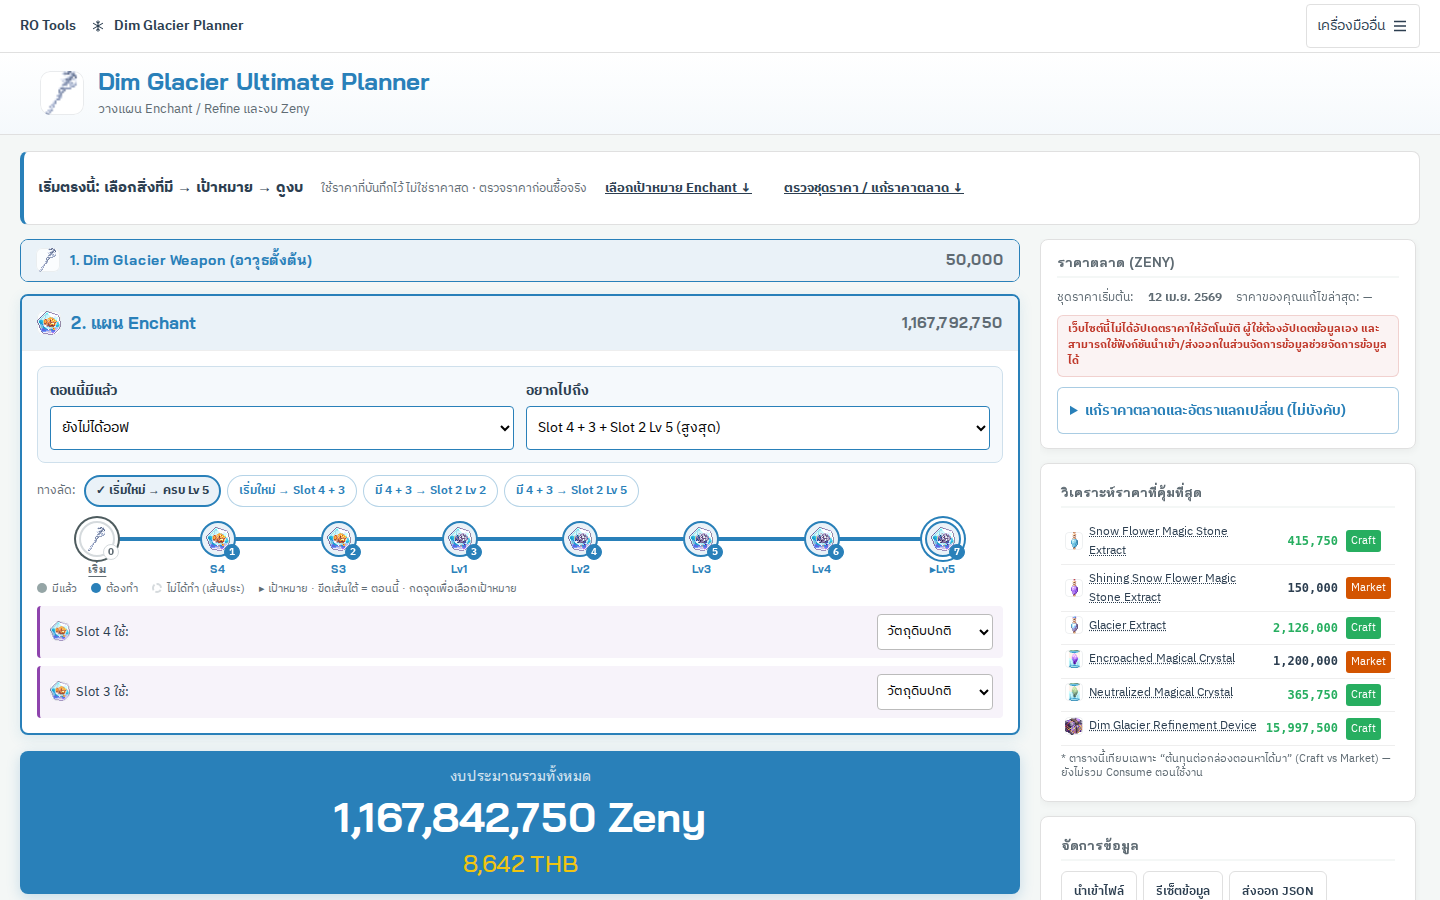
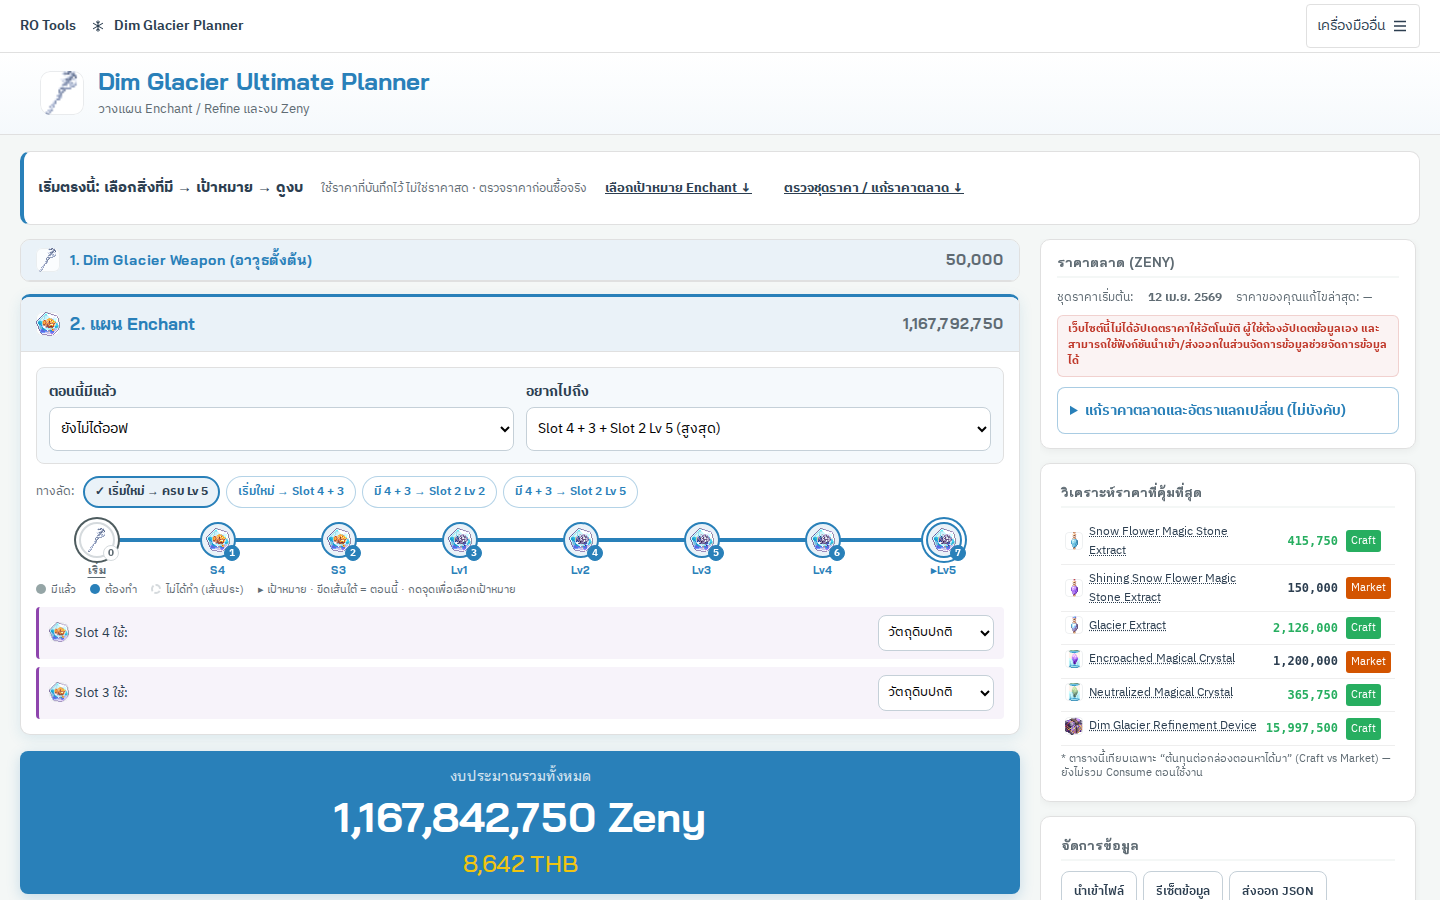
Unify borders: hairline cards, uniform controls, accent top bar on primary cards
Claude-Session: https://claude.ai/code/session_01NtBUtWsinKPD7YZ8sp6Py9

diff --git a/index.html b/index.html
@@ -768,11 +768,11 @@
     @media (max-width: 520px) { #card_base .card-title { font-size: 13px; gap: 8px; } }
 
     /* primary start point: current -> target */
-    #card_plan { border-width: 2px; box-shadow: 0 4px 14px rgba(41,128,185,.12); }
+    #card_plan, #card_shop { border-top: 3px solid var(--accent); box-shadow: 0 4px 14px rgba(41,128,185,.12); }
     #card_plan .card-title { font-size: 17px; }
     .stage-selects { gap: 12px; padding: 12px; background: #f5f9fc; border: 1px solid #cfe0ec; border-radius: 8px; }
     .stage-field { font-size: 14px; color: var(--primary); }
-    .stage-field select { min-height: 44px; font-size: 14px; border-color: var(--accent); }
+    .stage-field select { min-height: 44px; font-size: 14px; }
 
     /* presets: quiet shortcuts under the two controls */
     .preset-row { margin: 12px 0 4px; }
@@ -811,7 +811,6 @@
     /* result: total first, shopping list scans by name / qty / cost */
     .first-run-planner > .grand-total { padding: 16px 20px; margin-bottom: 16px; box-shadow: 0 4px 14px rgba(41,128,185,.22); }
     #total_zeny { font-size: clamp(28px, 8.5vw, 42px) !important; overflow-wrap: anywhere; }
-    #card_shop { border-width: 2px; }
     #card_shop .card-title { font-size: 17px; }
     .shop-summary { color: var(--muted); }
     .shop-table .shop-qty { width: 1%; padding: 7px 14px; }
@@ -823,7 +822,7 @@
     .view-btn.active::before { content: "\2713\00a0"; }
 
     /* refine: optional add-on after the enchant plan */
-    #card_refine { border-color: var(--border); margin-bottom: 14px; }
+    #card_refine { margin-bottom: 14px; }
     #card_refine .card-top { background: #f6f8f9; padding: 10px 15px; }
     #card_refine .card-title { font-size: 14px; color: var(--primary); }
     #card_refine .card-cost { font-size: 14px; }
@@ -853,6 +852,18 @@
     .site-head h1 { grid-column: auto; text-align: left; margin: 0; font-size: 24px; line-height: 1.2; }
     .site-head p { margin: 2px 0 0; font-size: 13px; color: var(--muted); }
     @media (max-width: 520px) { .site-head-in { padding: 10px 20px; gap: 10px; } .site-head-icon { width: 36px; height: 36px; } .site-head h1 { font-size: 18px; } .site-head p { font-size: 12px; } }
+
+    /* one border system: hairline cards, uniform controls, emphasis from a top bar + soft shadow */
+    :root { --edge: #e0e0e0; --control-edge: #c5d0d8; }
+    .card, .interactive-card, .first-run-guide, .gimmick-box { border-radius: 10px; }
+    .interactive-card { border-color: var(--edge); }
+    .card-top { border-bottom-color: var(--edge); }
+    .input-group input, .method-select, .toolbar-btn, .toolbar-card .toolbar-btn, .toolbar-card .toolbar-btn.primary, .first-run-prices > summary { border: 1px solid var(--control-edge); border-radius: 8px; }
+    .stage-selects { border-color: var(--edge); }
+    .view-toggle { border-color: var(--control-edge); border-radius: 8px; }
+    .input-group input:hover, .method-select:hover, .toolbar-btn:hover, .toolbar-card .toolbar-btn:hover { border-color: var(--accent); }
+    .input-group input:focus-visible, .method-select:focus-visible { border-color: var(--accent); }
+    .first-run-prices > summary { border-color: rgba(41,128,185,.4); }
   </style>
   <link rel="stylesheet" href="./assets/ro-suite/nav140-host.css">
   <link rel="stylesheet" href="./assets/ro-suite/theme-host.css">

diff --git a/qa/ui-cohesion/ui-cohesion.css b/qa/ui-cohesion/ui-cohesion.css
@@ -61,11 +61,11 @@
     @media (max-width: 520px) { #card_base .card-title { font-size: 13px; gap: 8px; } }
 
     /* primary start point: current -> target */
-    #card_plan { border-width: 2px; box-shadow: 0 4px 14px rgba(41,128,185,.12); }
+    #card_plan, #card_shop { border-top: 3px solid var(--accent); box-shadow: 0 4px 14px rgba(41,128,185,.12); }
     #card_plan .card-title { font-size: 17px; }
     .stage-selects { gap: 12px; padding: 12px; background: #f5f9fc; border: 1px solid #cfe0ec; border-radius: 8px; }
     .stage-field { font-size: 14px; color: var(--primary); }
-    .stage-field select { min-height: 44px; font-size: 14px; border-color: var(--accent); }
+    .stage-field select { min-height: 44px; font-size: 14px; }
 
     /* presets: quiet shortcuts under the two controls */
     .preset-row { margin: 12px 0 4px; }
@@ -104,7 +104,6 @@
     /* result: total first, shopping list scans by name / qty / cost */
     .first-run-planner > .grand-total { padding: 16px 20px; margin-bottom: 16px; box-shadow: 0 4px 14px rgba(41,128,185,.22); }
     #total_zeny { font-size: clamp(28px, 8.5vw, 42px) !important; overflow-wrap: anywhere; }
-    #card_shop { border-width: 2px; }
     #card_shop .card-title { font-size: 17px; }
     .shop-summary { color: var(--muted); }
     .shop-table .shop-qty { width: 1%; padding: 7px 14px; }
@@ -116,7 +115,7 @@
     .view-btn.active::before { content: "\2713\00a0"; }
 
     /* refine: optional add-on after the enchant plan */
-    #card_refine { border-color: var(--border); margin-bottom: 14px; }
+    #card_refine { margin-bottom: 14px; }
     #card_refine .card-top { background: #f6f8f9; padding: 10px 15px; }
     #card_refine .card-title { font-size: 14px; color: var(--primary); }
     #card_refine .card-cost { font-size: 14px; }
@@ -146,3 +145,15 @@
     .site-head h1 { grid-column: auto; text-align: left; margin: 0; font-size: 24px; line-height: 1.2; }
     .site-head p { margin: 2px 0 0; font-size: 13px; color: var(--muted); }
     @media (max-width: 520px) { .site-head-in { padding: 10px 20px; gap: 10px; } .site-head-icon { width: 36px; height: 36px; } .site-head h1 { font-size: 18px; } .site-head p { font-size: 12px; } }
+
+    /* one border system: hairline cards, uniform controls, emphasis from a top bar + soft shadow */
+    :root { --edge: #e0e0e0; --control-edge: #c5d0d8; }
+    .card, .interactive-card, .first-run-guide, .gimmick-box { border-radius: 10px; }
+    .interactive-card { border-color: var(--edge); }
+    .card-top { border-bottom-color: var(--edge); }
+    .input-group input, .method-select, .toolbar-btn, .toolbar-card .toolbar-btn, .toolbar-card .toolbar-btn.primary, .first-run-prices > summary { border: 1px solid var(--control-edge); border-radius: 8px; }
+    .stage-selects { border-color: var(--edge); }
+    .view-toggle { border-color: var(--control-edge); border-radius: 8px; }
+    .input-group input:hover, .method-select:hover, .toolbar-btn:hover, .toolbar-card .toolbar-btn:hover { border-color: var(--accent); }
+    .input-group input:focus-visible, .method-select:focus-visible { border-color: var(--accent); }
+    .first-run-prices > summary { border-color: rgba(41,128,185,.4); }

diff --git a/qa/ui-cohesion/REPORT.md b/qa/ui-cohesion/REPORT.md
@@ -27,3 +27,4 @@ Presentation-only pass on top of the first-run flow. No formula, price, storage,
 - Full-bleed shared nav (host-side margin/padding only; nav component and its host CSS untouched) and a slim title band (icon + h1 + one-line subtitle) replace the centred bare `<h1>`. Screenshots: `screenshots/frame-1440.png`, `frame-390.png`.
 - Fonts: IBM Plex Sans Thai (body) and Bai Jamjuree (headings, costs, total) — the same pair the Reform page uses — are bundled in `assets/fonts/` (OFL, Thai + Latin, `font-display: swap`), so there is no third-party font request. The pinned shared-nav host stack names `'Sarabun'`; a `'Sarabun'` `@font-face` alias pointing at the Plex files keeps the nav in the same face without touching nav/host CSS or its audit. Body size is 15px.
 - Test harness: `ui-cohesion.browser.cjs` now uses a fresh browser context per case (state could leak between cases and cause an intermittent mismatch).
+- Borders: one system — hairline `#e0e0e0` cards at 10px radius, uniform `#c5d0d8` controls at 8px radius (accent only on hover/focus), and the two primary cards (plan, shopping) get a 3px accent top bar plus soft shadow instead of 2px blue borders.
